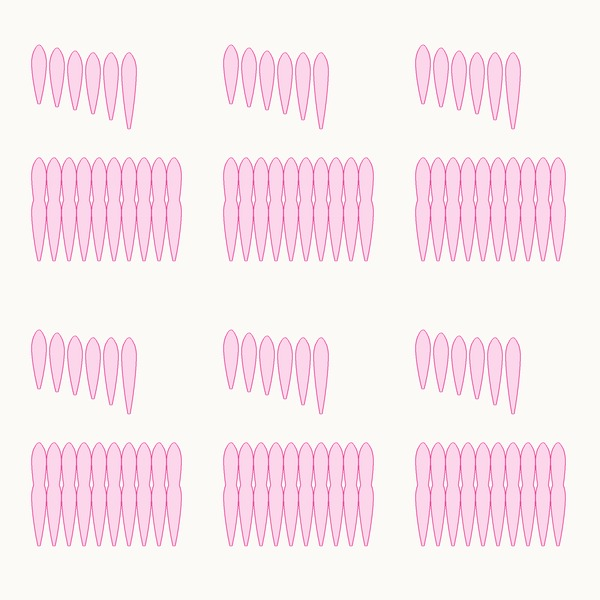
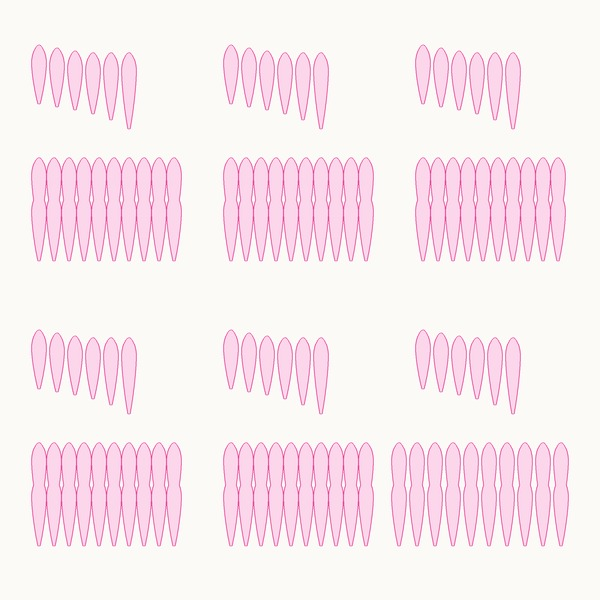
Press test 3: block 6's patch 6 mm apart
The owner, of the first four blocks (GOGH/IMG_3459.jpg, GPS out): "the bottom legs
still stick together in groups … move the last for Jar 14 1 mm apart?". x 133 … 187.

Changed region(s): [[0.63, 0.72, 0.96, 0.93]]

diff --git a/app/test/goghplan.test.js b/app/test/goghplan.test.js
@@ -256,7 +256,7 @@ test('a drop, the slave: its top 1.5 under the way\'s start, its tip 12 past its
   assert.ok(at(q, len(q) - 0.2) < 1, 'the tail a point');
 });
 
-test('Press test 3: three paints a column each, Jar 28 · Jar 6 · Jar 14, two blocks a paint, their patches 5 mm apart, drops on the screen, none touching another block', async () => {
+test('Press test 3: three paints a column each, Jar 28 · Jar 6 · Jar 14, two blocks a paint, their patches 5 mm apart (block 6 6 mm), drops on the screen, none touching another block', async () => {
   const fs = await import('node:fs'), path = await import('node:path'), { fileURLToPath } = await import('node:url');
   const root = path.join(path.dirname(fileURLToPath(import.meta.url)), '..', '..');
   const { GOGH_LIB, dropOf, passesV } = await import('../src/goghplan.js');
@@ -270,7 +270,7 @@ test('Press test 3: three paints a column each, Jar 28 · Jar 6 · Jar 14, two b
     assert.deepEqual(lone.map(([, a, b]) => a - b), [4, 6, 8, 10, 12, 15]);
     assert.deepEqual(lone.slice(1).map((l, i) => l[0] - lone[i][0]), [6, 6, 6, 6, 6]);
     assert.equal(patch.length, 10);
-    assert.deepEqual(patch.slice(1).map((l, i) => l[0][0] - patch[i][0][0]), Array(9).fill(5), 'the patch 5 mm apart');
+    assert.deepEqual(patch.slice(1).map((l, i) => l[0][0] - patch[i][0][0]), Array(9).fill(j.id === 'b6' ? 6 : 5), 'the patch 5 mm apart, block 6\'s 6');
     // RUN 16 at most: the longest lone drop's tail still 3 mm over the patch's top
     const tail = Math.min(...dropOf(...lone[5], { gap: pic.look.gap, run: 2 }).map(p => p[1])), head = Math.max(...dropOf(...patch[0][0], { gap: pic.look.gap, run: 2 }).map(p => p[1]));
     assert.ok(tail - head > 3, `${j.id}: ${tail} over ${head}`);

diff --git a/GOGH/README.md b/GOGH/README.md
@@ -80,6 +80,7 @@ dabs 4 · 6 · 8 · 10 · 12 · 15 mm 6 mm apart, 3 mm higher than Press test 2'
 
 | file | what it shows |
 |---|---|
+| `IMG_3459.jpg` | The first four blocks (the owner: "a preliminary result, but one can already say that the bottom legs still stick together in groups"), Jar 28 at the left, Jar 6 in the middle: the grey's heads ≈ 7 mm (est., by the lone dabs' 6 mm), so even its lone dabs touch head to head, its patches in groups of 3 … 4; the orange's ≈ 4.5 mm, its lone dabs apart, its patches in twos and threes; its tails long and thin. Block 6's patch made 6 mm apart then (x 133 … 187; the owner: "move the last for Jar 14 1 mm apart?"). |
 | `../FORM-G/IMG_3172.jpg` | Jar 28, the thick graphite grey, on the Targa's Colour 6 (FORM-G, 2026-11-17, the 5 mm brush, a leg and its run back): every leg two glossy rails along its sides, the canvas's weave bare between them, the ends rounded; the paint stands where the brush pushed it and does not level — Jar 19's red of Press test 2 flowed into a teardrop. |
 
 ## Press test 2, lengths (2026-11-23, the night)

diff --git a/CHANGELOG.md b/CHANGELOG.md
@@ -5,6 +5,9 @@ Machine measurements stay in RUBENS: `../Rubens/CALIBRATION.md`.
 
 ## Unreleased
 
+- **Press test 3: block 6's patch 6 mm apart** (2026-11-23, the day; the owner, of the first four blocks, `GOGH/IMG_3459.jpg`: "the bottom legs still
+  stick together in groups … move the last for Jar 14 1 mm apart?"). x 133 … 187, ten columns within the canvas; blocks 1 … 5 as painted.
+
 - **Press test 3, paints: master and slave** (2026-11-23, the day; the owner: "take the grey paint Jar 28 … the orange Jar 6 and the red TAIL
   LIGHT 14"; "do not draw the ideal even sausages any more. Take the red contour and leave the pink inside"; "a barely visible yellow contour of the
   sausage, the master, and the pink drop with its red contour its phantom slave"). `app/gogh/press-paints-20`: a paint a column, two blocks each, lone
